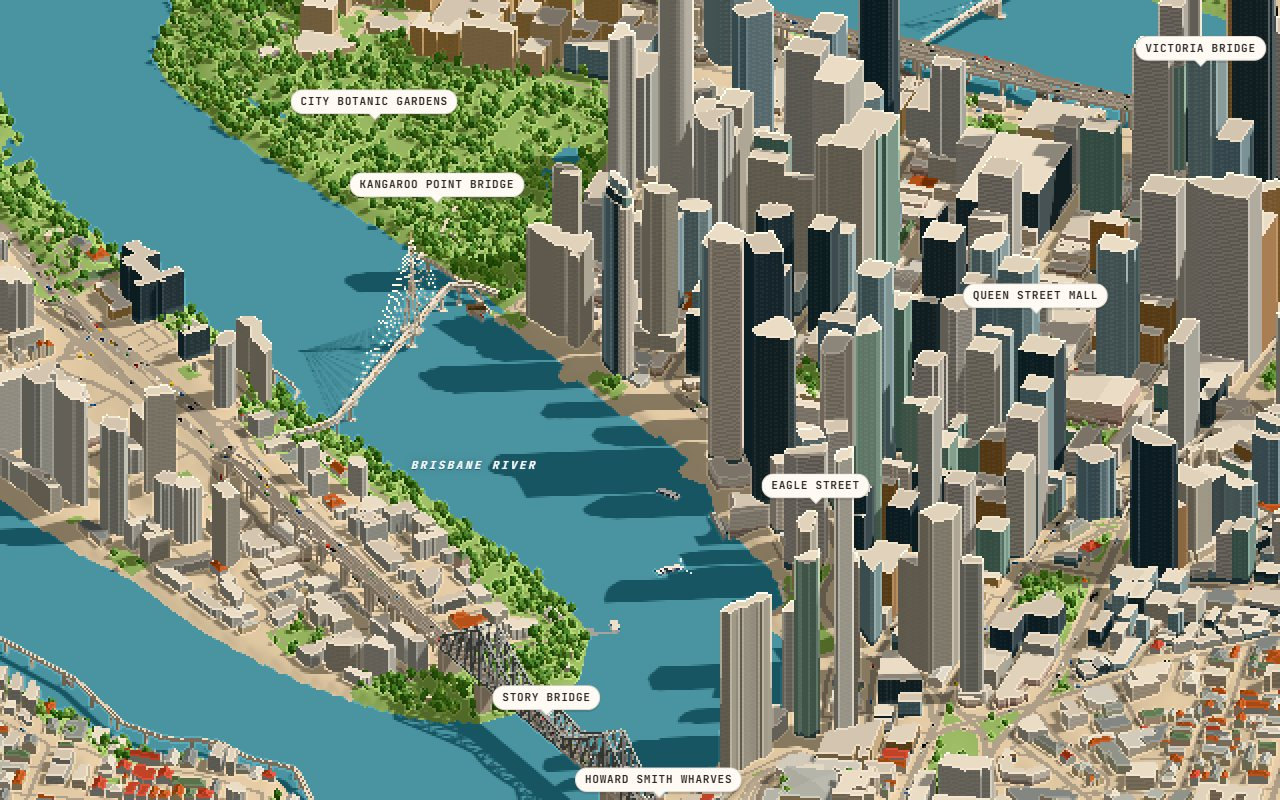
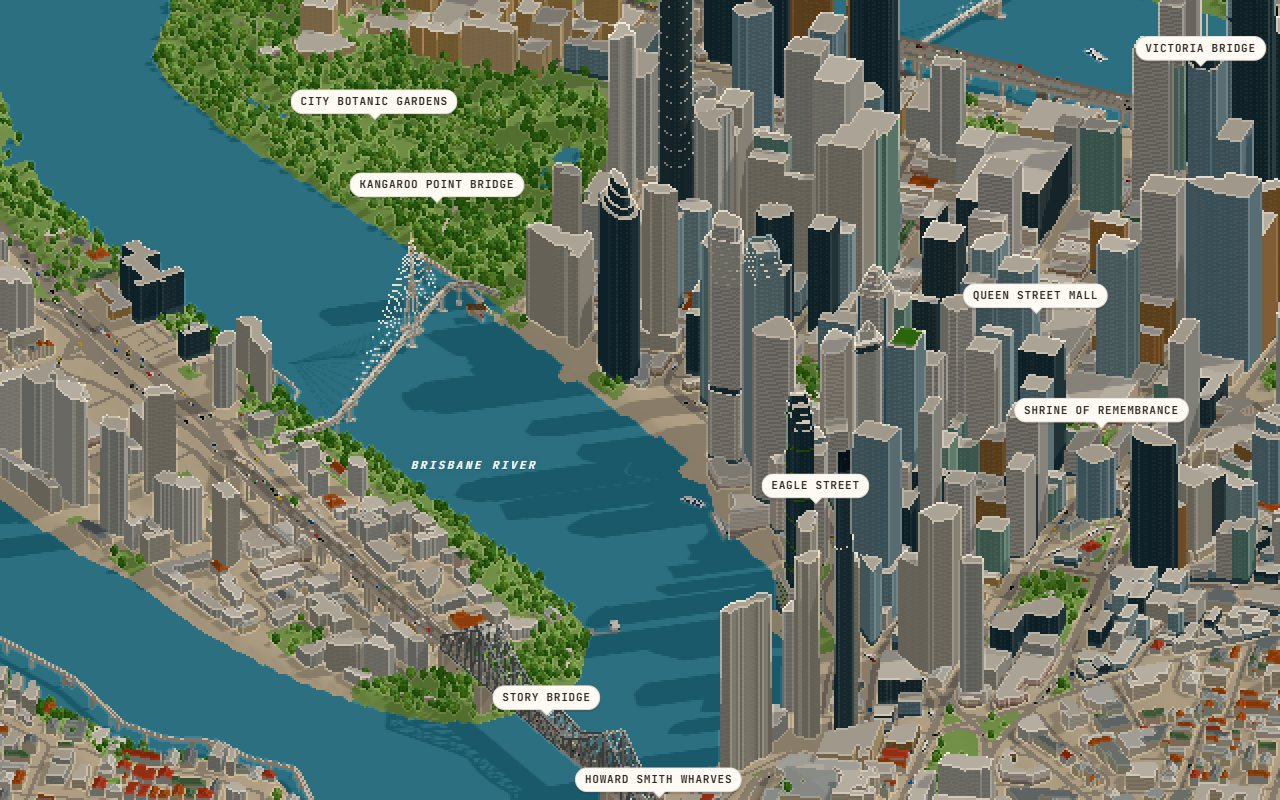
Brisbane pixel diorama: rebuilt page and a new thumbnail
The project page still described the airport map and six roll levels because it hadn't been rebuilt; it now covers the ride replay and the aircraft models too, and the thumbnail shows the reshaped towers.

diff --git a/brisbane-pixel-diorama/index.html b/brisbane-pixel-diorama/index.html
@@ -46,24 +46,24 @@
     <article class="writeup">
     <h2>What you&#x27;re looking at</h2>
     <p>Drag to orbit, scroll to zoom, and hover or click a building to see its height and floors. The sun slider moves the shadows from 6am to 5:15pm, and the photo view frames Eagle Street.</p>
-    <p>The CityCats, ferries, trains, buses and Metro sit at their real GPS positions, and the planes are the real flights passing over Brisbane, so hover any of them to see where it&#x27;s headed. The cars are simulated, but how many are out follows the council&#x27;s live traffic signal data, and the cyclists ride the bikeways in the numbers its bike counters record.</p>
-    <p>The Airport button opens a second map of Brisbane Airport, where you can watch the planes land, take off and taxi to the gates.</p>
-    <p>The Roll button turns the map into a Katamari-style game, where a sticky ball rolls up everything smaller than itself, from cane toads, ibis and kangaroos to CityCats and the Brisbane Skytower, with six levels, a collection book and a best-times board.</p>
+    <p>The CityCats, ferries, trains, buses and Metro sit at their real GPS positions, and the planes are the real flights passing over Brisbane, so hover any of them to see where it&#x27;s headed. Each aircraft is drawn as its own type, from Cessnas and rescue helicopters to Dash 8s and A350s. The cars are simulated, but how many are out follows the council&#x27;s live traffic signal data, and the cyclists ride the bikeways in the numbers its bike counters record.</p>
+    <p>The Ride button replays a bike ride from a GPX file on the map, with the rider, their speed and heart rate, and the sun where it was at that time of day.</p>
+    <p>The Roll button turns the map into a Katamari-style game, where a sticky ball rolls up everything smaller than itself, from cane toads, ibis and kangaroos to CityCats and the Brisbane Skytower, with five levels, a collection book and a best-times board.</p>
     <p>In daylight the sun and the weather follow the real time in Brisbane, so the shadows and the clouds are today&#x27;s.</p>
     <p>Buildings and hills are drawn 1.6 times taller than they really are, so the skyline still reads from a distance.</p>
     <h2>How it was made</h2>
     <p>The model is one data file: 57,008 building footprints with heights, the trees, 14,304 road segments, the parks and the river, all clipped to a circle 5 km around West End. three.js draws it in WebGL, and the pixel finish, labels and traffic can each be switched off.</p>
-    <p>The ground follows Queensland&#x27;s bare-earth LiDAR elevation model, sampled every 10 m, so Mt Coot-tha and the inner-city hills rise out of the map. The river bridges are hand-built models drawn from published dimensions and photos.</p>
+    <p>The ground follows Queensland&#x27;s bare-earth LiDAR elevation model, sampled every 10 m, so Mt Coot-tha and the inner-city hills rise out of the map. The river bridges, the tallest towers and landmarks such as the Wheel of Brisbane, the Brisbane sign and the Gabba are hand-built models drawn from published dimensions and photos.</p>
     <p>The railway comes from OpenStreetMap, and each train follows the track between its GPS fixes, through the junctions, over the bridges and into the tunnels.</p>
     <p>The live ferries, trains, buses and planes come through a small relay on Cloudflare, which fetches each feed every few seconds and shares it with everyone who has the map open.</p>
     <p>It was built with Claude in October 2026.</p>
     <h2>The data</h2>
-    <p>Buildings, streets, parks and the railway are © OpenStreetMap contributors (ODbL) and the Overture Maps Foundation. The elevation is the State of Queensland&#x27;s QldDem (CC BY-SA), the ferry, train and bus positions are TransLink&#x27;s open GTFS-RT feed (CC BY 4.0), the traffic signal data and bike counts are Brisbane City Council&#x27;s (CC BY 4.0), the weather is Open-Meteo&#x27;s, and the aircraft positions are <a href="https://adsb.lol/">adsb.lol</a> open data.</p>
+    <p>Buildings, streets, parks and the railway are © OpenStreetMap contributors (ODbL) and the Overture Maps Foundation. The elevation is the State of Queensland&#x27;s QldDem (CC BY-SA), the ferry, train and bus positions are TransLink&#x27;s open GTFS-RT feed (CC BY 4.0), the traffic signal data and bike counts are Brisbane City Council&#x27;s (CC BY 4.0), the weather is Open-Meteo&#x27;s, and the aircraft positions are <a href="https://adsb.lol/">adsb.lol</a> and <a href="https://adsb.fi/">adsb.fi</a> open data.</p>
     <p>The map files come to 14 MB, so give it a few seconds on a phone.</p>
     </article>
     <aside class="facts"><dl>
-      <div><dt>Data</dt><dd>OpenStreetMap, Overture Maps, Queensland&#x27;s LiDAR elevation model, TransLink, Brisbane City Council, Open-Meteo and adsb.lol</dd></div>
-      <div><dt>Scale</dt><dd>57,008 buildings, 136,000 trees and 14 hand-built bridges in a 5 km circle, plus the airport</dd></div>
+      <div><dt>Data</dt><dd>OpenStreetMap, Overture Maps, Queensland&#x27;s LiDAR elevation model, TransLink, Brisbane City Council, Open-Meteo, adsb.lol and adsb.fi</dd></div>
+      <div><dt>Scale</dt><dd>57,008 buildings, 136,000 trees and 14 hand-built bridges in a 5 km circle</dd></div>
       <div><dt>Built with</dt><dd>three.js r170 and WebGL, with Claude</dd></div>
       <div><dt>Code</dt><dd><a href="https://github.com/thomasc91/dataskunkworks/tree/main/projects/brisbane-pixel-diorama">projects/brisbane-pixel-diorama on GitHub</a></dd></div>
     </dl></aside>
